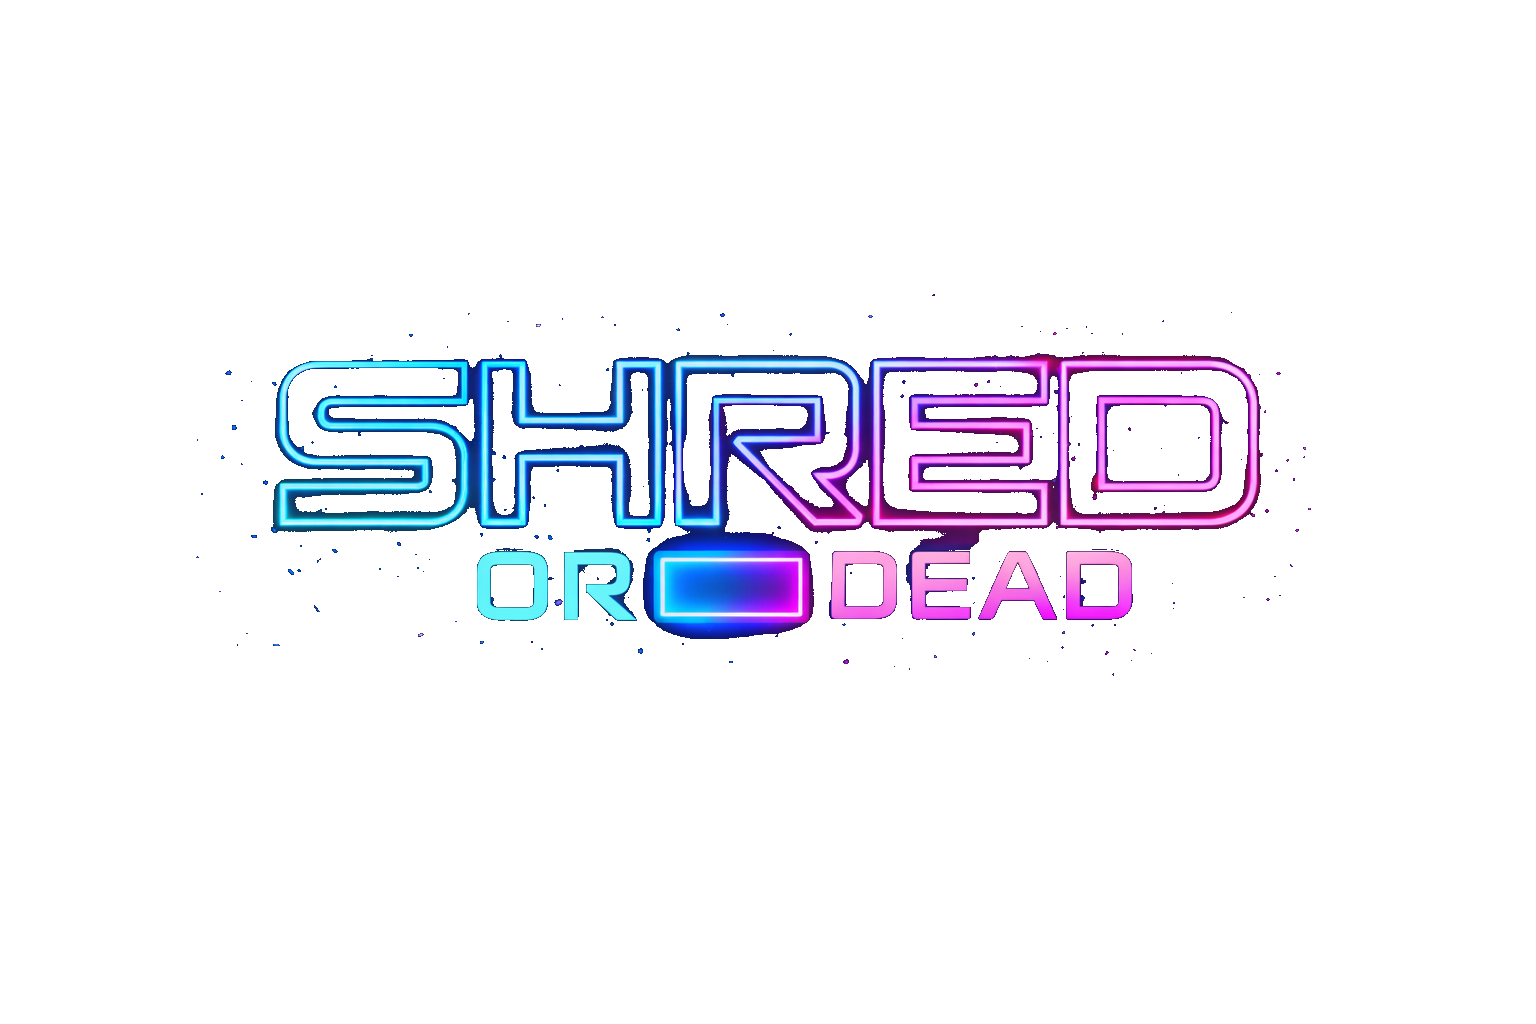
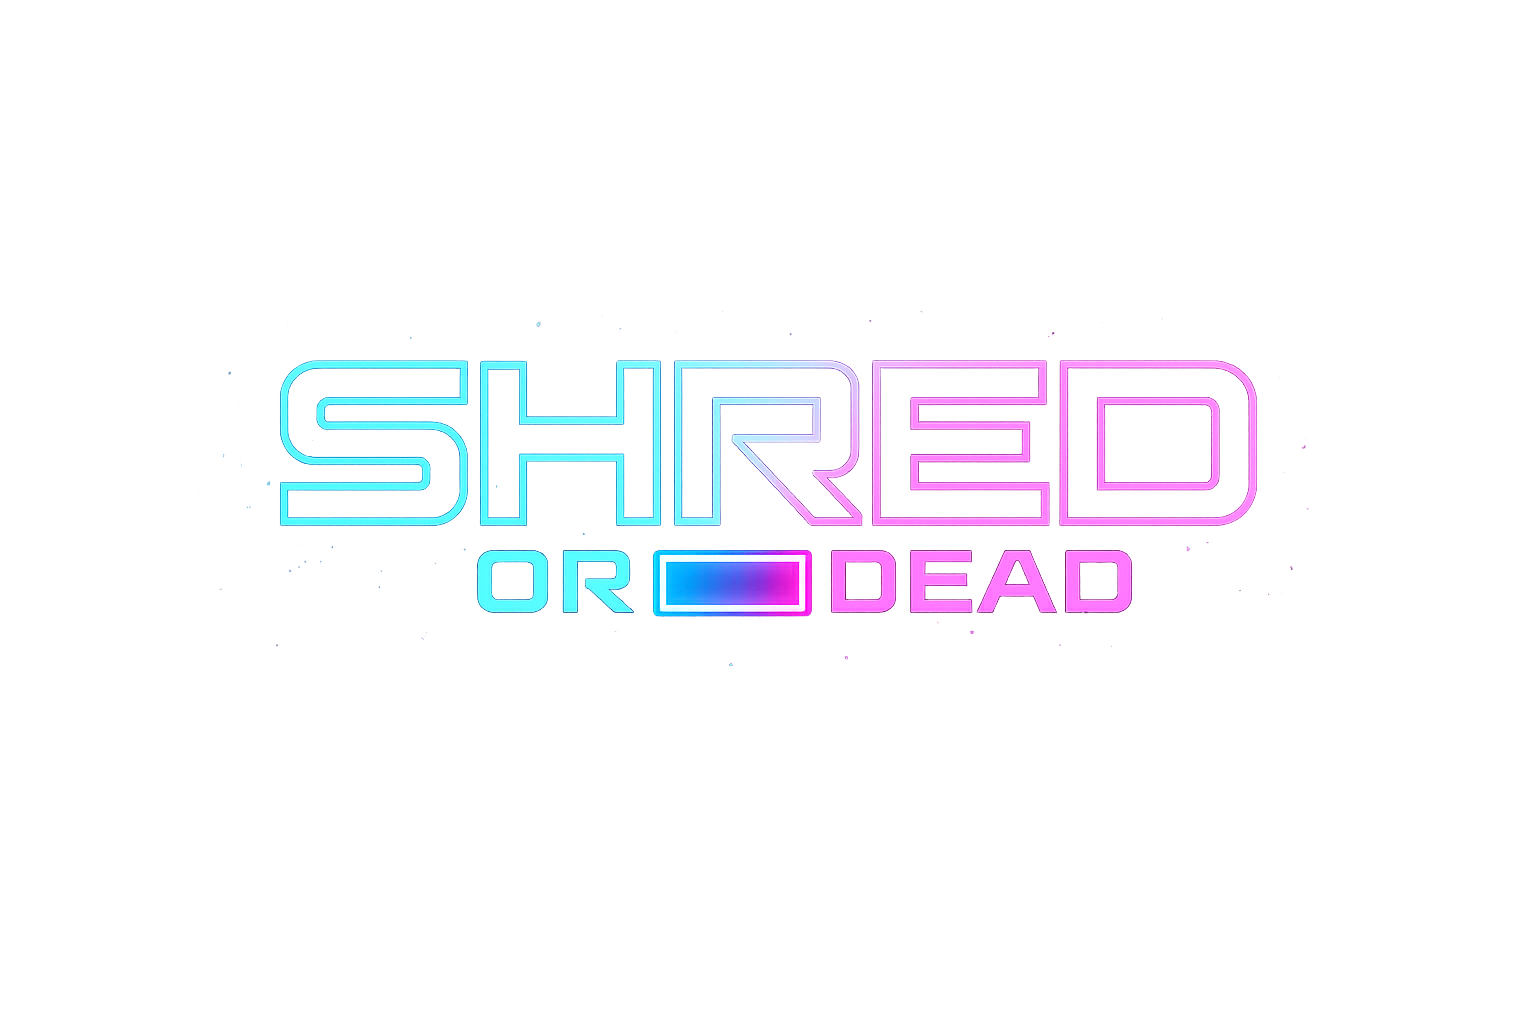
Improve start screen UI/UX based on feedback
- Reposition logo to top, smaller size to reveal snowboarder
- Move tagline above Start Game button with pill background
- Add pulsing glow animation to primary button
- Add sweep animation on secondary button hover
- Add CRT scanline overlay and vignette for retro polish
- Improve button hover states with scale/lift effects
- Update logo asset with new version

Changed region(s): [[0.1562, 0.3438, 0.8438, 0.625]]

diff --git a/index.html b/index.html
@@ -137,10 +137,11 @@
             display: flex;
             flex-direction: column;
             align-items: center;
-            justify-content: center;
+            justify-content: flex-start;
             position: relative;
             overflow: visible;
-            margin-bottom: -60px;
+            margin-top: -15px;
+            margin-bottom: 0;
             z-index: 2;
         }
 
@@ -149,16 +150,16 @@
             position: absolute;
             top: 50%;
             left: 50%;
-            transform: translate(-50%, -45%);
-            width: 550px;
-            height: 400px;
+            transform: translate(-50%, -50%);
+            width: 520px;
+            height: 360px;
             pointer-events: none;
             z-index: 4;
         }
 
         /* Wordmark logo image */
         #game-logo-img {
-            width: 95%;
+            width: 92%;
             max-width: 420px;
             height: auto;
             image-rendering: -webkit-optimize-contrast;
@@ -304,23 +305,44 @@
         .game-logo {
             display: none;
         }
-                    0 0 100px rgba(255, 0, 255, 0.6);
-                transform: scale(1.03);
-            }
-        }
 
+        /* Tagline - positioned above menu buttons */
         .tagline {
-            font-size: 9px;
+            font-size: 8px;
             color: var(--white);
             letter-spacing: 2px;
+            text-align: center;
+            white-space: nowrap;
             text-shadow:
-                0 0 10px rgba(255, 255, 255, 0.8),
-                0 0 20px rgba(0, 255, 255, 0.5),
-                0 0 30px rgba(255, 0, 255, 0.3);
-            opacity: 1;
+                0 0 10px rgba(255, 255, 255, 0.9),
+                0 0 20px rgba(0, 255, 255, 0.7),
+                0 0 40px rgba(255, 0, 255, 0.5),
+                2px 2px 4px rgba(0, 0, 0, 0.8);
             position: relative;
             z-index: 5;
-            margin-top: 15px;
+            margin-bottom: 15px;
+            padding: 10px 20px;
+            background: rgba(26, 10, 46, 0.8);
+            border-radius: 6px;
+            border: 1px solid rgba(0, 255, 255, 0.4);
+            animation: tagline-pulse 2s ease-in-out infinite;
+        }
+
+        @keyframes tagline-pulse {
+            0%, 100% {
+                text-shadow:
+                    0 0 10px rgba(255, 255, 255, 0.9),
+                    0 0 20px rgba(0, 255, 255, 0.7),
+                    0 0 40px rgba(255, 0, 255, 0.5),
+                    2px 2px 4px rgba(0, 0, 0, 0.8);
+            }
+            50% {
+                text-shadow:
+                    0 0 15px rgba(255, 255, 255, 1),
+                    0 0 30px rgba(0, 255, 255, 0.9),
+                    0 0 50px rgba(255, 0, 255, 0.7),
+                    2px 2px 4px rgba(0, 0, 0, 0.8);
+            }
         }
 
         /* ============================================
@@ -363,19 +385,42 @@
                 0 0 20px rgba(0, 255, 255, 0.5),
                 0 4px 15px rgba(0, 0, 0, 0.3),
                 inset 0 1px 0 rgba(255, 255, 255, 0.3);
+            font-size: 14px;
+            font-weight: bold;
+            animation: btn-primary-pulse 2s ease-in-out infinite;
+        }
+
+        @keyframes btn-primary-pulse {
+            0%, 100% {
+                box-shadow:
+                    0 0 20px rgba(0, 255, 255, 0.5),
+                    0 4px 15px rgba(0, 0, 0, 0.3),
+                    inset 0 1px 0 rgba(255, 255, 255, 0.3);
+            }
+            50% {
+                box-shadow:
+                    0 0 30px rgba(0, 255, 255, 0.7),
+                    0 0 50px rgba(0, 255, 255, 0.3),
+                    0 4px 15px rgba(0, 0, 0, 0.3),
+                    inset 0 1px 0 rgba(255, 255, 255, 0.3);
+            }
         }
 
         .btn-primary:hover {
-            background: linear-gradient(180deg, #33ffff 0%, var(--cyan) 100%);
-            transform: translateY(-3px);
+            background: linear-gradient(180deg, #66ffff 0%, #33ffff 100%);
+            transform: translateY(-4px) scale(1.02);
             box-shadow:
-                0 0 30px rgba(0, 255, 255, 0.7),
-                0 0 50px rgba(0, 255, 255, 0.4),
-                0 6px 20px rgba(0, 0, 0, 0.4);
+                0 0 40px rgba(0, 255, 255, 0.8),
+                0 0 60px rgba(0, 255, 255, 0.5),
+                0 8px 25px rgba(0, 0, 0, 0.4);
+            animation: none;
         }
 
         .btn-primary:active {
-            transform: translateY(0);
+            transform: translateY(-1px) scale(0.98);
+            box-shadow:
+                0 0 25px rgba(0, 255, 255, 0.6),
+                0 2px 10px rgba(0, 0, 0, 0.3);
         }
 
         /* Secondary Buttons Row */
@@ -395,15 +440,38 @@
             font-size: 10px;
             padding: 14px 20px;
             flex: 1;
+            position: relative;
+            overflow: hidden;
+        }
+
+        .btn-secondary::before {
+            content: '';
+            position: absolute;
+            top: 0;
+            left: -100%;
+            width: 100%;
+            height: 100%;
+            background: linear-gradient(90deg, transparent, rgba(255, 0, 255, 0.2), transparent);
+            transition: left 0.5s ease;
+        }
+
+        .btn-secondary:hover::before {
+            left: 100%;
         }
 
         .btn-secondary:hover {
-            background: linear-gradient(180deg, rgba(255, 0, 255, 0.4) 0%, rgba(255, 0, 255, 0.2) 100%);
+            background: linear-gradient(180deg, rgba(255, 0, 255, 0.4) 0%, rgba(255, 0, 255, 0.25) 100%);
             border-color: var(--magenta);
-            transform: translateY(-2px);
+            transform: translateY(-3px) scale(1.02);
             box-shadow:
-                0 0 25px rgba(255, 0, 255, 0.5),
-                0 5px 15px rgba(0, 0, 0, 0.4);
+                0 0 30px rgba(255, 0, 255, 0.6),
+                0 0 50px rgba(255, 0, 255, 0.3),
+                0 6px 20px rgba(0, 0, 0, 0.4);
+            color: #fff;
+        }
+
+        .btn-secondary:active {
+            transform: translateY(-1px) scale(0.98);
         }
 
         /* High Score Display */
@@ -420,16 +488,55 @@
 
         /* Press Space Hint */
         .press-space {
-            font-size: 10px;
-            color: var(--white);
-            opacity: 0.8;
-            animation: blink 1s steps(1) infinite;
-            margin-top: 5px;
+            font-size: 9px;
+            color: var(--cyan);
+            opacity: 0.9;
+            animation: space-blink 1.5s ease-in-out infinite;
+            margin-top: 15px;
+            text-shadow: 0 0 10px rgba(0, 255, 255, 0.5);
+            letter-spacing: 2px;
         }
 
-        @keyframes blink {
-            0%, 49% { opacity: 0.8; }
-            50%, 100% { opacity: 0; }
+        @keyframes space-blink {
+            0%, 100% { opacity: 0.9; transform: translateY(0); }
+            50% { opacity: 0.4; transform: translateY(2px); }
+        }
+
+        /* CRT scanline effect overlay */
+        #startScreen::after {
+            content: '';
+            position: absolute;
+            top: 0;
+            left: 0;
+            right: 0;
+            bottom: 0;
+            background: repeating-linear-gradient(
+                0deg,
+                transparent,
+                transparent 2px,
+                rgba(0, 0, 0, 0.1) 2px,
+                rgba(0, 0, 0, 0.1) 4px
+            );
+            pointer-events: none;
+            z-index: 1000;
+            opacity: 0.3;
+        }
+
+        /* Subtle vignette for focus */
+        .content-overlay::before {
+            content: '';
+            position: absolute;
+            top: 0;
+            left: 0;
+            right: 0;
+            bottom: 0;
+            background: radial-gradient(
+                ellipse at center,
+                transparent 50%,
+                rgba(0, 0, 0, 0.4) 100%
+            );
+            pointer-events: none;
+            z-index: 0;
         }
 
         /* ============================================
@@ -566,6 +673,18 @@
             box-shadow: 0 0 15px rgba(0, 255, 255, 0.3);
         }
 
+        /* Button focus states for keyboard navigation */
+        .menu-btn:focus-visible {
+            outline: 3px solid var(--white);
+            outline-offset: 4px;
+            animation: focus-pulse 0.5s ease-out;
+        }
+
+        @keyframes focus-pulse {
+            0% { outline-offset: 0; }
+            100% { outline-offset: 4px; }
+        }
+
         /* ============================================
            Responsive Adjustments
            ============================================ */
@@ -576,22 +695,33 @@
                 min-height: 90vh;
             }
 
-            .logo-snow, .logo-free {
-                font-size: 28px;
+            #game-logo-img {
+                max-width: 280px;
             }
 
             .tagline {
                 font-size: 7px;
+                letter-spacing: 1px;
+                padding: 6px 12px;
             }
 
             .menu-btn {
-                font-size: 10px;
+                font-size: 11px;
                 padding: 14px 24px;
             }
 
             .btn-secondary {
                 font-size: 8px;
                 padding: 12px 15px;
+            }
+
+            .button-row {
+                flex-direction: column;
+                gap: 10px;
+            }
+
+            .press-space {
+                font-size: 8px;
             }
         }
     </style>
@@ -610,7 +740,6 @@
                     <canvas id="blizzardCanvas" aria-hidden="true"></canvas>
                     <img src="assets/shredordead-wordmark.png" alt="SHRED OR DEAD" id="game-logo-img">
                     <h1 class="visually-hidden">SHRED OR DEAD</h1>
-                    <p class="tagline">SHRED THE GNAR OR GET WRECKED</p>
                 </div>
 
                 <!-- Spacer for vertical centering -->
@@ -618,6 +747,7 @@
 
                 <!-- Menu Buttons -->
                 <div class="menu-section">
+                    <p class="tagline">SHRED THE GNAR OR GET WRECKED</p>
                     <button class="menu-btn btn-primary" id="startBtn" onclick="startGame()">
                         START GAME
                     </button>
@@ -801,16 +931,16 @@
 
             // Set canvas size
             function resizeCanvas() {
-                canvas.width = 550;
-                canvas.height = 400;
+                canvas.width = 520;
+                canvas.height = 360;
             }
             resizeCanvas();
 
             // Logo dimensions - centered
             const centerX = canvas.width / 2;
-            const centerY = 160;
+            const centerY = 140;
             const logoWidth = 380;
-            const logoHeight = 80;
+            const logoHeight = 85;
 
             // Random helpers
             function rand(min, max) {
